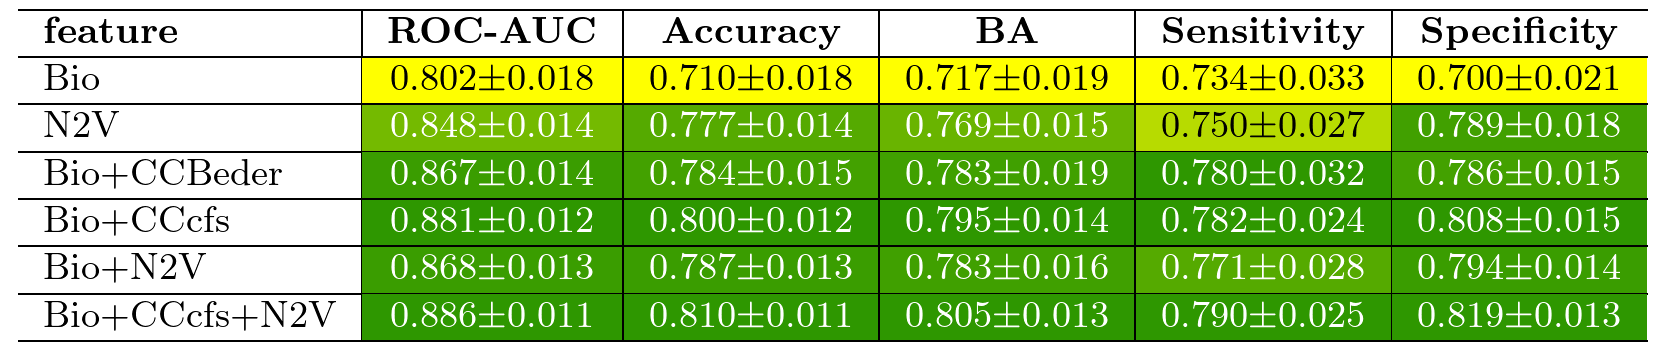
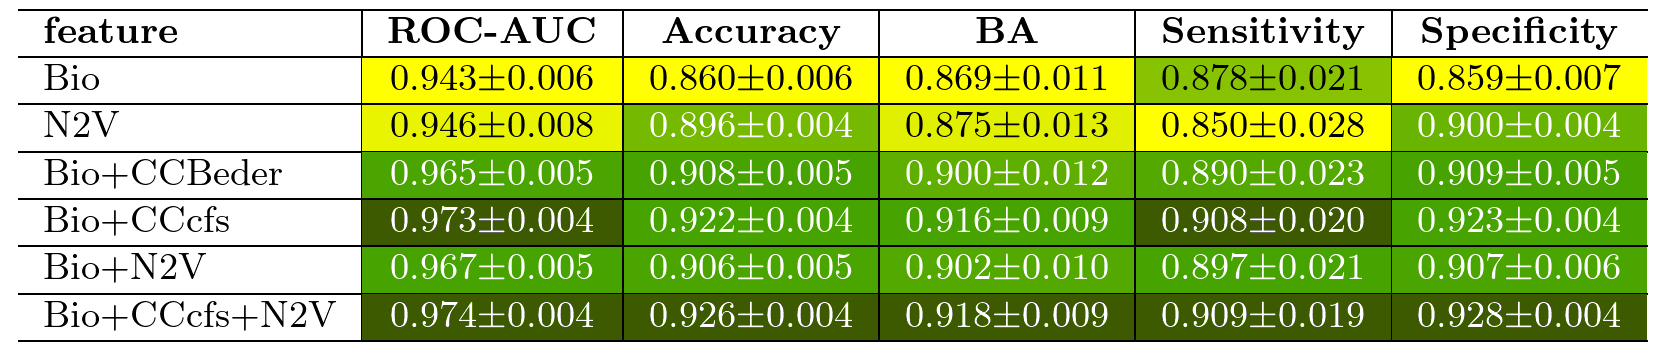
upd

diff --git a/texexample/main.tex b/texexample/main.tex
@@ -4,7 +4,7 @@
 \begin{document}
 \begin{minipage}{1.15\textwidth}
     \begin{center}
-        \heattable{../results/EvsAELung.csv}{greenyellow} \\
+        \heattable{../results/EvsSNELung.csv}{greenyellow} \\
     \end{center}
 \end{minipage}
 \end{document}
